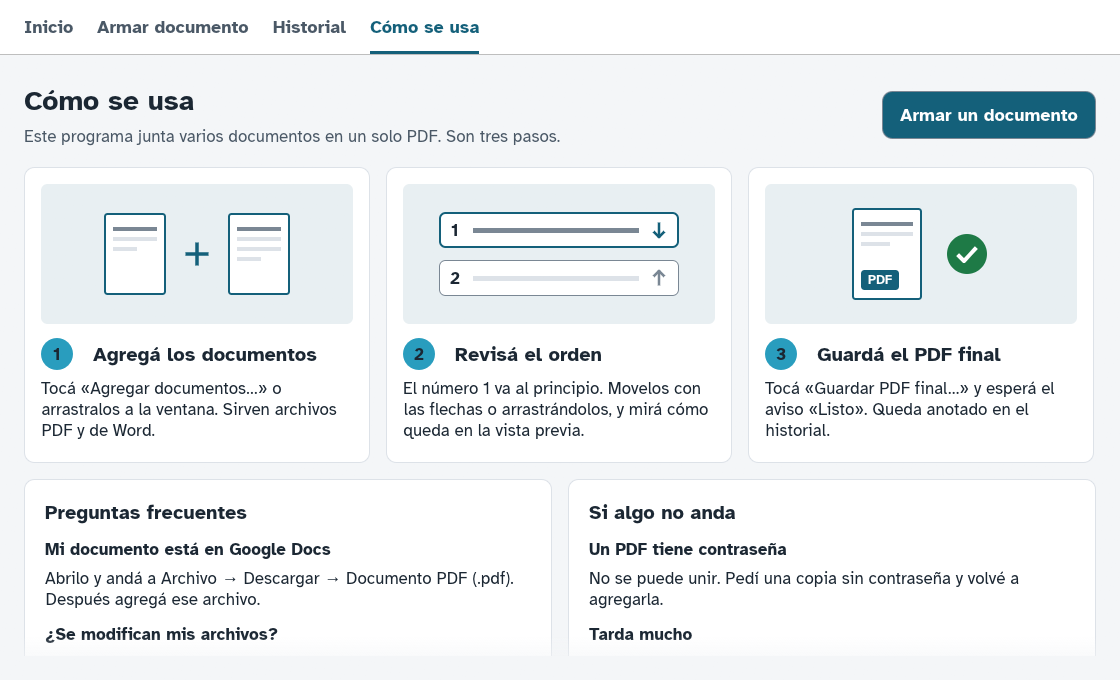
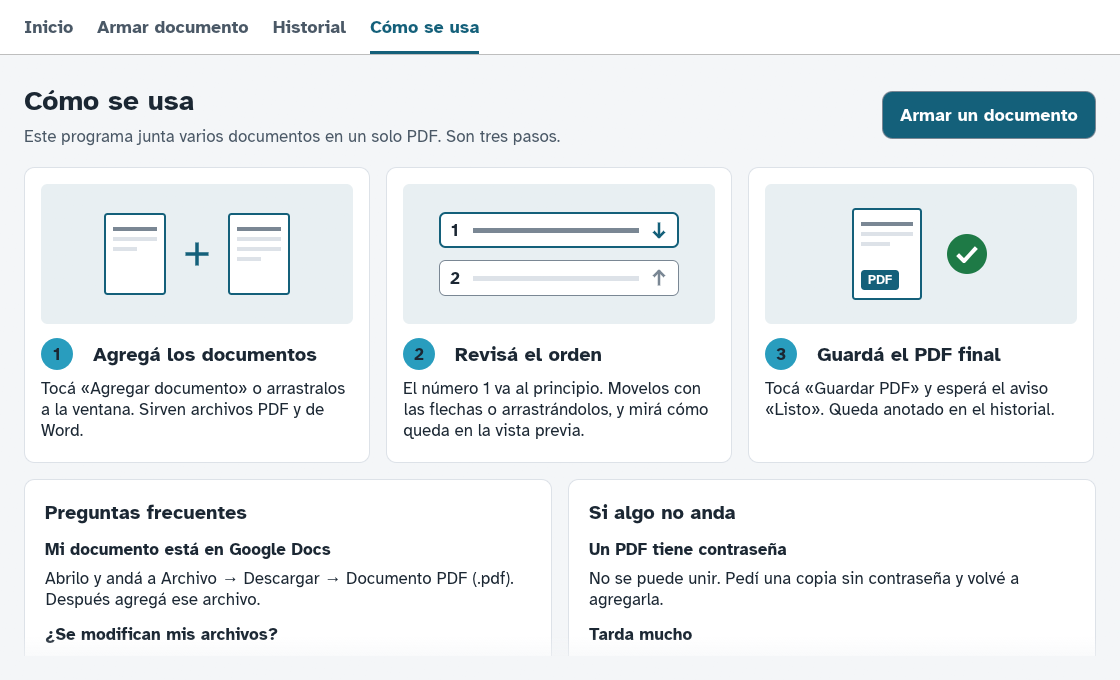
Botones más cortos: «Agregar documento» y «Guardar PDF» con ícono

Changed region(s): [[0.0312, 0.5559, 0.3125, 0.6485], [0.6875, 0.5559, 0.9375, 0.6485]]

diff --git a/src/main.rs b/src/main.rs
@@ -443,6 +443,29 @@ fn boton_icono(ui: &mut egui::Ui, icono: Icono, habilitado: bool, texto: &str) -
     resp.on_hover_text(texto)
 }
 
+/// Botón principal «Guardar PDF», con un ícono de guardado adelante.
+fn boton_guardar(ui: &mut egui::Ui, habilitado: bool) -> egui::Response {
+    let texto = "Guardar PDF";
+    let (fondo, color) = if habilitado { (marca().primario, Color32::WHITE) } else { (BORDE_SUAVE, TINTA_SUAVE) };
+    let letras = ui.painter().layout_no_wrap(texto.to_string(), negrita(18.0), color);
+    let ancho = 18.0 + 22.0 + 10.0 + letras.size().x + 18.0;
+    let (r, resp) = ui.allocate_exact_size(egui::vec2(ancho, 48.0), if habilitado { Sense::click() } else { Sense::hover() });
+    let p = ui.painter();
+    p.rect_filled(r, RADIO_MD as f32, fondo);
+    if habilitado && resp.hovered() {
+        p.rect_stroke(r, RADIO_MD as f32, Stroke::new(2.0, marca().acento), StrokeKind::Inside);
+    }
+    // Ícono de guardado (disquete).
+    let c = egui::pos2(r.left() + 18.0 + 11.0, r.center().y);
+    let v = |x: f32, y: f32| c + egui::vec2(x, y);
+    let s = Stroke::new(1.8, color);
+    trazo(p, &[v(-9.0, -9.0), v(6.0, -9.0), v(9.0, -6.0), v(9.0, 9.0), v(-9.0, 9.0), v(-9.0, -9.0)], s);
+    trazo(p, &[v(-5.0, -9.0), v(-5.0, -3.5), v(4.0, -3.5), v(4.0, -9.0)], s);
+    trazo(p, &[v(-5.5, 9.0), v(-5.5, 1.5), v(5.5, 1.5), v(5.5, 9.0)], s);
+    p.galley(egui::pos2(r.left() + 18.0 + 22.0 + 10.0, r.center().y - letras.size().y / 2.0), letras, color);
+    if habilitado { resp.on_hover_cursor(egui::CursorIcon::PointingHand) } else { resp }
+}
+
 fn ayuda(texto: &str) -> RichText {
     RichText::new(texto).size(15.0).color(TINTA_SUAVE)
 }
@@ -823,9 +846,9 @@ impl App {
             ui.add_space(12.0);
 
             let pasos: [(u8, &str, &str); 3] = [
-                (1, "Agregá los documentos", "Tocá «Agregar documentos…» o arrastralos a la ventana. Sirven archivos PDF y de Word."),
+                (1, "Agregá los documentos", "Tocá «Agregar documento» o arrastralos a la ventana. Sirven archivos PDF y de Word."),
                 (2, "Revisá el orden", "El número 1 va al principio. Movelos con las flechas o arrastrándolos, y mirá cómo queda en la vista previa."),
-                (3, "Guardá el PDF final", "Tocá «Guardar PDF final…» y esperá el aviso «Listo». Queda anotado en el historial."),
+                (3, "Guardá el PDF final", "Tocá «Guardar PDF» y esperá el aviso «Listo». Queda anotado en el historial."),
             ];
             let separacion = 16.0;
             let ancho = ((ui.available_width() - 2.0 * separacion) / 3.0).floor();
@@ -931,7 +954,7 @@ impl App {
         ui.horizontal(|ui| {
             ui.add_enabled_ui(!ocupado, |ui| {
                 let vacio = self.archivos.is_empty();
-                let boton = if vacio { boton_principal("+  Agregar documentos…") } else { boton_secundario("+  Agregar más documentos…") };
+                let boton = if vacio { boton_principal("+  Agregar documento") } else { boton_secundario("+  Agregar documento") };
                 if ui.add(boton).clicked() {
                     self.elegir_y_agregar();
                 }
@@ -1135,11 +1158,11 @@ impl App {
             } else if ocupado {
                 ui.add_enabled(false, boton_secundario("Guardando…"));
             } else if self.archivos.is_empty() {
-                ui.add_enabled(false, boton_secundario("Guardar PDF final…"));
+                boton_guardar(ui, false);
                 ui.add_space(8.0);
                 ui.label(ayuda("Primero agregá al menos un documento."));
             } else {
-                if ui.add(boton_principal("Guardar PDF final…")).clicked() {
+                if boton_guardar(ui, true).clicked() {
                     self.exportar(&ctx);
                 }
             }

diff --git a/README.md b/README.md
@@ -29,7 +29,7 @@ Al abrirlo, la pantalla de **Inicio** tiene un botón grande para armar un docum
 
 ### 1. Agregá los documentos
 
-Tocá **Agregar documentos…** y elegí los archivos, o arrastralos desde una carpeta y soltalos sobre la ventana. Sirven archivos PDF y de Word (`.doc`, `.docx`).
+Tocá **Agregar documento** y elegí los archivos, o arrastralos desde una carpeta y soltalos sobre la ventana. Sirven archivos PDF y de Word (`.doc`, `.docx`).
 
 ### 2. Revisá el orden
 
@@ -41,7 +41,7 @@ A la derecha, la **vista previa** muestra las páginas del PDF final a medida qu
 
 ### 3. Guardá el PDF final
 
-Escribí el **nombre del PDF** (viene sugerido) y tocá **Guardar PDF final…**. Se abre la carpeta `exportaciones` del programa; ahí mismo podés elegir otra. Cuando aparece el aviso **Listo**, se puede abrir el PDF o su carpeta.
+Escribí el **nombre del PDF** (viene sugerido) y tocá **Guardar PDF**. Se abre la carpeta `exportaciones` del programa; ahí mismo podés elegir otra. Cuando aparece el aviso **Listo**, se puede abrir el PDF o su carpeta.
 
 ![Aviso de que el PDF se guardó](docs/3-listo.png)
 

diff --git a/CHANGELOG.md b/CHANGELOG.md
@@ -5,6 +5,7 @@
 - Pantalla de Inicio: botón grande para armar un documento nuevo y últimos PDF armados.
 - Pestaña Historial: todos los PDF armados, con buscador, «Abrir», «Abrir la carpeta» y «Volver a armar».
 - Reordenar con flechas o arrastrando; tacho para quitar, con «Deshacer» durante unos segundos.
+- Botones más cortos: «Agregar documento» y «Guardar PDF», con ícono.
 - Nombre del PDF editable antes de guardar; se propone la carpeta `exportaciones` del programa.
 - Vista previa en miniaturas de dos columnas, con la cantidad de páginas de cada documento.
 - «Cómo se usa» rediseñado: tres pasos ilustrados, preguntas frecuentes y qué hacer si algo no anda.
